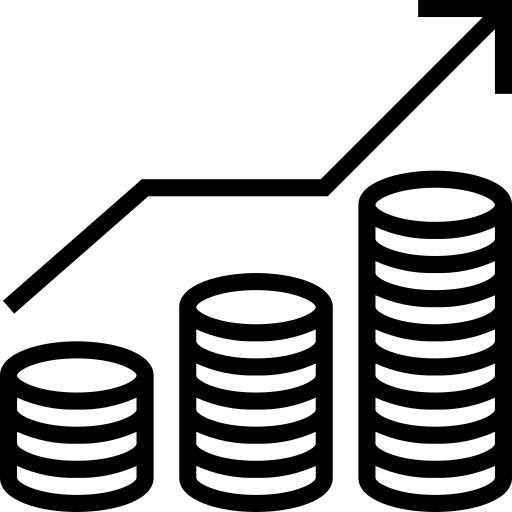
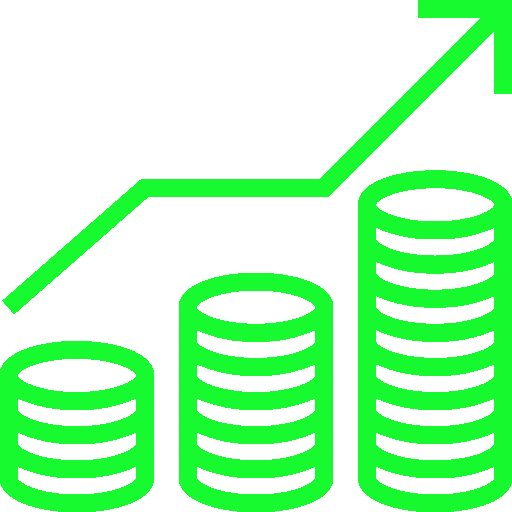
sidebar +

diff --git a/src/pages/sidebar/sideMenu.jsx b/src/pages/sidebar/sideMenu.jsx
@@ -2,19 +2,30 @@ import ListItem from "@mui/material/ListItem";
 import ListItemButton from "@mui/material/ListItemButton";
 import List from "@mui/material/List";
 import '../layout.scss'
-import {Typography} from "@mui/material";
+import {Divider, ListItemIcon, Typography} from "@mui/material";
 import {useDispatch, useSelector} from "react-redux";
 import guardian_black from '../../img/sidebar/guardian_black.png'
 import {setActive} from "./SideMenuSlice";
 import {Link} from "react-router-dom";
 import {useTheme} from "../../hook/useTheme";
+import { SimpleTreeView } from '@mui/x-tree-view/SimpleTreeView';
+import { TreeItem } from '@mui/x-tree-view/TreeItem';
+import DonutSmallIcon from '@mui/icons-material/DonutSmall';
+import sales_black from "../../img/sidebar/sales_black.png";
+import goal_black from "../../img/sidebar/goal_black.png";
+import economics_black from "../../img/sidebar/economics_black.png";
+import finance_black from "../../img/sidebar/finance_black.png";
+import equality_black from "../../img/sidebar/equality_black.png";
+import resources_black from "../../img/sidebar/resources_black.png";
+import HomeRepairServiceIcon from '@mui/icons-material/HomeRepairService';
+import production_black from "../../img/sidebar/production_black.png";
 
 const SideMenu = () => {
     const mode = useSelector(state => state.header.mode);
     const menuList = useSelector(state => state.sidemenu.menuList);
     const dispatch = useDispatch()
 
-    const renderList = (data)=>{
+    /*const renderList = (data)=>{
         if (data){
             return data.map(item => {
                 return  <Link to={`/${item.link}`} key={item.id}>
@@ -23,33 +34,78 @@ const SideMenu = () => {
                               sx={{'&:hover': {backgroundColor: mode === 'dark' ? 'rgb(81 81 81)' : ''}}}
                     >
                         {
-                            item.id === 8
-                            ?
-                                <SpecialId8 item={item}/>
-                            :
-                                <SideBarList item={item}/>
+                            item.id === 8 && <SpecialId8 item={item}/>
                         }
                     </ListItem>
                 </Link>
             })
         }
       }
-    const sidebarData = renderList(menuList)
+    const sidebarData = renderList(menuList)*/
+    const neon = useTheme('neonGreen')
+    const color = useTheme('divider')
 
     return (
         <div className='sideMenu' style={{background: useTheme('bg', 'sideBar')}}>
-            <List>
+            {/*<List>
                 {
                     sidebarData ? sidebarData : ''
                 }
-            </List>
+            </List>*/}
+            <SimpleTreeView>
+
+                <TreeItem itemId={'Проекты'}
+                          label={
+                              <ListItemButton sx={{height: 35}}>
+                                  <ListItemIcon sx={{width: '44px'}}><HomeRepairServiceIcon sx={{color: neon}}/></ListItemIcon>
+                                  <div>Проекты</div>
+                              </ListItemButton>
+                          }>
+                    <Tree name={'Динамика'} ico={<DonutSmallIcon sx={{color: neon}}/>} link={'realisation'}/>
+                    <Tree name={'Реализация'} img={production_black} link={'realisation'}/>
+                </TreeItem>
+                <Divider sx={{borderColor: color}}/>
+                <Tree name={'Продажи'} img={sales_black} link={'sales'}/>
+                <Tree name={'Цели показатели'} img={goal_black} link={'goals'}/>
+                <Tree name={'Экономика'} img={economics_black} link={'economics'}/>
+                <Tree name={'Финансы'} img={finance_black} link={'finance'}/>
+                <Tree name={'Баланс'} img={equality_black} link={'balance'}/>
+                <Tree name={'Ресурсы'} img={resources_black} link={'resources'}/>
+                <Tree name={'ПРР'} img={guardian_black} link={'lost_develop'}/>
+
+            </SimpleTreeView>
         </div>
     );
 };
 
 export default SideMenu;
 
-const SideBarList = ({item})=>{
+const Tree = ({name, img = false, ico = false, link = false, children})=>{
+    const links = link ? `/${link}` : ''
+    const color = useTheme('divider')
+
+    return (
+        <Link to={links}>
+            <TreeItem itemId={name + Math.random()}
+            label={
+                <ListItemButton sx={{height: 40}}>
+                    { img &&
+                        <img className='menuIcon' src={img} alt={name}
+                             /*style={{filter: useTheme() ? 'brightness(0) invert(1)': null}}*/
+                        />
+                    }
+                    { ico &&
+                        <ListItemIcon sx={{width: '44px'}}>{ico}</ListItemIcon>
+                    }
+                    <div>{name}</div>
+                </ListItemButton>
+            }>{children}</TreeItem>
+            <Divider sx={{borderColor: color}}/>
+        </Link>
+    )
+}
+
+/*const SideBarList = ({item})=>{
     return (
         <ListItemButton sx={{height: 48,px: 2.5}}>
             <img className='menuIcon' src={item.icon} alt={item.name}
@@ -58,7 +114,7 @@ const SideBarList = ({item})=>{
             <div>{item.name}</div>
         </ListItemButton>
     )
-}
+}*/
 
 const SpecialId8 = (item) => {
     return (

diff --git a/src/pages/layout.scss b/src/pages/layout.scss
@@ -25,7 +25,7 @@ main .pageWrapper {
 
 
 .sideMenu {
-    /*flex-basis: 60px;*/
+
     box-shadow: 0px 2px 4px -1px rgba(0, 0, 0, 0.2), 0px 4px 5px 0px rgba(0, 0, 0, 0.14), 0px 1px 10px 0px rgba(0, 0, 0, 0.12);
     overflow: hidden;
     background: #F5F5F5;
@@ -33,7 +33,7 @@ main .pageWrapper {
     transition: width .1s linear;
     -webkit-transform: translateZ(0) scale(1, 1);
     z-index: 999;
-    position: absolute;
+    position: fixed;
     top: 64px;
     bottom: 0;
     height: calc(100% - 64px);
@@ -45,7 +45,7 @@ main .pageWrapper {
         width: 230px;
         overflow: visible;
     }
-    .active {
+    /*.active {
         background: rgb(76, 178, 66);
         color: white;
         transition: color .5s ease-in-out;
@@ -55,7 +55,7 @@ main .pageWrapper {
             filter: brightness(0) invert(1);
             transition: filter .5s ease-in-out;
         }
-    }
+    }*/
 
     .menuIcon {
         width: 24px;
@@ -65,6 +65,28 @@ main .pageWrapper {
         text-decoration: none;
         color: inherit;
     }
+    .MuiTreeItem-content {
+        padding: 4px 0px;
+        border-radius: 0;
+        gap: 0;
+    }
+    .MuiListItemButton-root {
+        padding-left: 4px;
+        &:hover {
+            background-color: inherit !important;
+        }
+    }
+    .Mui-selected {
+        background-color: rgb(76, 178, 66) !important;
+        transition: color .5s ease-in-out;
+        font-weight: 600;
+        text-shadow: 1px 1px black;
+        div {
+            color: white;
+            text-shadow: 1px 1px 1px black;
+        }
+    }
+
 
 }
 

diff --git a/src/hook/useTheme.js b/src/hook/useTheme.js
@@ -28,6 +28,8 @@ const dark = {
     listHeader: '#333333',
     listHeaderText: '#9f9f9f',
     scroll: 'black',
+    neonGreen: '#17fa2f',
+    neonGreenShadow: '-1px 1px 10px #1dd530, 0px -2px 10px #1dd530', //неон тень на модальных окнах
 
 }
 
@@ -51,7 +53,9 @@ const light = {
     },
     listHeader: '#4cb242',
     listHeaderText: '#ffffff',
-    scroll: '',
+    scroll: '#dddddd',
+    neonGreen: '#000000',
+    neonGreenShadow: ''
 }
 
 
